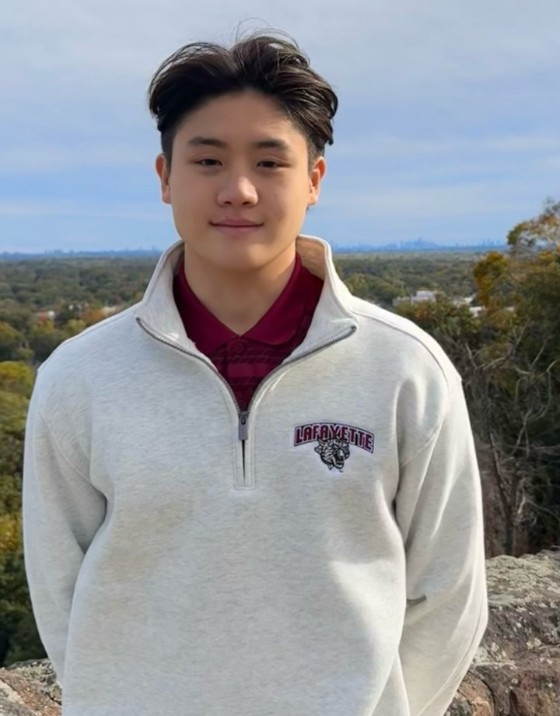
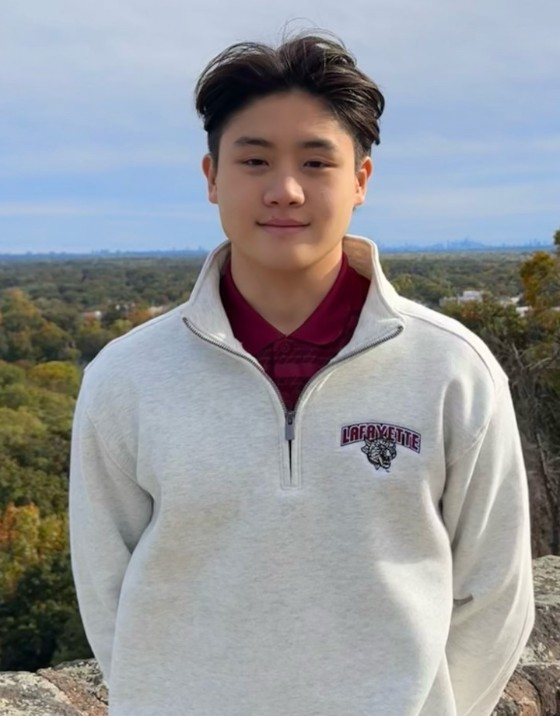
Placements: recenter Connor, zoom out Mady & Sebastian to full photos

diff --git a/src/data.js b/src/data.js
@@ -1168,8 +1168,8 @@ export const PLACEMENTS = [
   { name: 'Kayla Rodriguez',      school: 'Northwestern University',     photo: 'https://dxbhsrqyrr690.cloudfront.net/sidearm.nextgen.sites/nusports.com/images/2025/10/7/Rodriguez_Kayla.jpg', photoStyle: { objectPosition: 'center 10%' } },
   { name: 'Olivia De Los Reyes',  school: 'Providence College',          year: '2026', photo: '/photos/olivia-de-los-reyes-providence.jpg', photoStyle: { objectPosition: 'center 18%' } },
   { name: 'Connor Hong',          school: 'Lafayette College',           year: '2026', photo: '/photos/connor-hong-lafayette-crop.jpg', photoStyle: { objectPosition: 'center 15%' } },
-  { name: 'Madelyn Raguindin',    school: 'Lafayette College',           year: '2026', photo: '/photos/madelyn-raguindin-lafayette-crop.jpg', photoStyle: { objectPosition: 'center 12%' } },
-  { name: 'Sebastian Hendrawan',  school: 'Middlebury College',          year: '2026', photo: '/photos/sebastian-hendrawan-middlebury-crop.jpg', photoStyle: { objectPosition: 'center 15%' } },
+  { name: 'Madelyn Raguindin',    school: 'Lafayette College',           year: '2026', photo: '/photos/madelyn-raguindin-lafayette.jpg', photoStyle: { objectPosition: 'center 20%' } },
+  { name: 'Sebastian Hendrawan',  school: 'Middlebury College',          year: '2026', photo: '/photos/sebastian-hendrawan-middlebury.jpg', photoStyle: { objectPosition: 'center 20%' } },
   { name: 'Steven Bendoraitis',   school: 'TCNJ',           photo: '/athletes/steven-bendoraitis.webp', photoStyle: { objectPosition: 'center 10%' } },
   { name: 'Matt Bendoraitis',     school: 'University of Maine',         photo: '/athletes/matt-bendoraitis.webp' },
   { name: 'Kathleen Bendoraitis', school: 'University of Maine',         photo: '/athletes/kathleen-bendoraitis.webp' },
